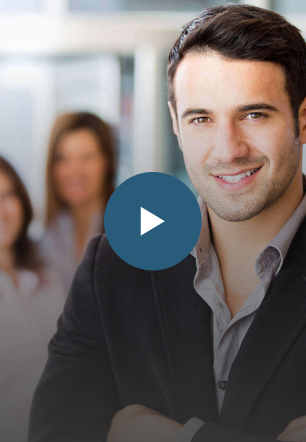
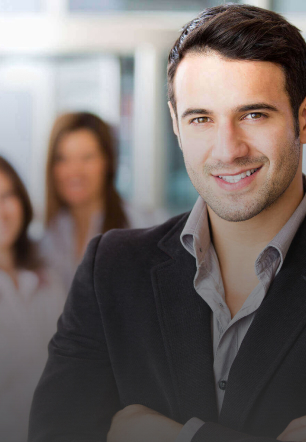
print version. maybe not final

Changed region(s): [[0.3235, 0.3824, 0.6765, 0.6176]]

diff --git a/styles/scss/layout/_about-us.scss b/styles/scss/layout/_about-us.scss
@@ -4,9 +4,7 @@
 
 .about-us {
     padding: 98px 0px 181px;
-    // background: linear-gradient(to bottom, colors.$header-m-background-color 50%, colors.$background-gradient-1 50%);
     background: linear-gradient(to bottom, colors.$light-bg-color 50%, #295C7A 50%);
-    // background: colors.$header-m-background-color;
     &__title {
         @include mixins.h2;
         @extend .text-centered;
@@ -20,23 +18,29 @@
         margin: 0px auto 60px;
     }
     &__video {
-        width: auto;
+        padding: 0px;
+        width: 100%;
+        box-sizing: border-box;
         height: 442px;
-        background-image: url("../../../images/about-us/image-md.jpg");
-        background-size: cover;
-        background-repeat: no-repeat;
-        background-position: center;
-        display: flex;
-        align-items: center;
-        justify-content: center;
+        position: relative;
         @media (min-width: 768px) {
-            background-image: url("../../../images/about-us/image-lg.jpg");
+            padding: 0px 83px;
         }
-
     }
     &__pause-icon {
         display: block;
         width: 98px;
         height: 98px;
+        position: absolute;
+        z-index: 1;
+        top:50%;
+        left:50%;
+        transform: translate(-50%, -50%);
+    }
+    &__image {
+        width: 100%;
+        height: 100%;
+        object-fit: cover;
+        object-position: center;
     }
 }

diff --git a/styles/css/styles.css b/styles/css/styles.css
@@ -92,6 +92,11 @@ html {
     display: flex;
   }
 }
+@media print {
+  .header__content {
+    display: none;
+  }
+}
 .header__nav {
   position: absolute;
   transition: 0.3s linear;
@@ -337,25 +342,34 @@ html {
   margin: 0px auto 60px;
 }
 .about-us__video {
-  width: auto;
+  padding: 0px;
+  width: 100%;
+  box-sizing: border-box;
   height: 442px;
-  background-image: url("../../../images/about-us/image-md.jpg");
-  background-size: cover;
-  background-repeat: no-repeat;
-  background-position: center;
-  display: flex;
-  align-items: center;
-  justify-content: center;
+  position: relative;
 }
 @media (min-width: 768px) {
   .about-us__video {
-    background-image: url("../../../images/about-us/image-lg.jpg");
+    padding: 0px 83px;
   }
 }
 .about-us__pause-icon {
   display: block;
   width: 98px;
   height: 98px;
+  position: absolute;
+  z-index: 1;
+  top: 50%;
+  left: 50%;
+  transform: translate(-50%, -50%);
+}
+.about-us__image {
+  width: 100%;
+  height: 100%;
+  -o-object-fit: cover;
+     object-fit: cover;
+  -o-object-position: center;
+     object-position: center;
 }
 
 .reviews {

diff --git a/styles/scss/print.scss b/styles/scss/print.scss
@@ -1,0 +1,38 @@
+
+@media print {
+    *,
+    *:before,
+    *:after,
+    *:first-letter,
+    p:first-line,
+    div:first-line,
+    blockquote:first-line,
+    li:first-line {
+        background: transparent !important;
+        color: #000 !important;
+        box-shadow: none !important;
+        text-shadow: none !important;
+    }
+    a[href^="http"]:not([href*="mywebsite.com"]):after {
+        content: " (" attr(href) ")";
+    }
+    @page {
+        size: A4;
+        margin: 1cm;
+    }
+    html {
+        font-size: 10pt;  
+    }
+    .header__content, 
+    .footer__socials,
+    .footer__site-map,
+    .footer__feedback {
+        display: none;
+    } 
+    .introduciton__text, .features__title, .about-us__title, .our-team__title {
+        page-break-after: avoid;
+    }
+    .card-features, .about-us__video, .card-reviews, .card-team, .form, .contact__request {
+        page-break-inside: avoid;
+    }
+}

diff --git a/index.html b/index.html
@@ -5,6 +5,7 @@
     <meta http-equiv="X-UA-Compatible" content="IE=edge">
     <meta name="viewport" content="width=device-width, initial-scale=1.0">
     <link rel="stylesheet" href="styles/css/styles.css">
+    <link rel="stylesheet" href="styles/css/print.css" media="print">
     <title>Llegal</title>
 </head>
 <body>
@@ -155,6 +156,10 @@
                     physics: Newtonian mechanics 
                 </p>
                 <div class="about-us__video">
+                    <picture>
+                        <source media="(min-width: 768px)" srcset="images/about-us/image-lg.jpg">
+                        <img src="images/about-us/image-md.jpg" alt="video" class="about-us__image">
+                    </picture>
                     <img src="images/about-us/pause-btn.svg" alt="" class="about-us__pause-icon">
                 </div>
             </div>

diff --git a/styles/css/print.css b/styles/css/print.css
@@ -1,0 +1,42 @@
+@media print {
+  *,
+*:before,
+*:after,
+*:first-letter,
+p:first-line,
+div:first-line,
+blockquote:first-line,
+li:first-line {
+    background: transparent !important;
+    color: #000 !important;
+    box-shadow: none !important;
+    text-shadow: none !important;
+  }
+
+  a[href^=http]:not([href*="mywebsite.com"]):after {
+    content: " (" attr(href) ")";
+  }
+
+  @page {
+    size: A4;
+    margin: 1cm;
+  }
+  html {
+    font-size: 10pt;
+  }
+
+  .header__content,
+.footer__socials,
+.footer__site-map,
+.footer__feedback {
+    display: none;
+  }
+
+  .introduciton__text, .features__title, .about-us__title, .our-team__title {
+    page-break-after: avoid;
+  }
+
+  .card-features, .about-us__video, .card-reviews, .card-team, .form, .contact__request {
+    page-break-inside: avoid;
+  }
+}/*# sourceMappingURL=print.css.map */

diff --git a/styles/scss/layout/_header.scss b/styles/scss/layout/_header.scss
@@ -21,6 +21,9 @@
         @media (min-width: 768px) {
             display: flex;
         }
+        @media print {
+            display: none;
+        }
 
     }
     &__nav {
